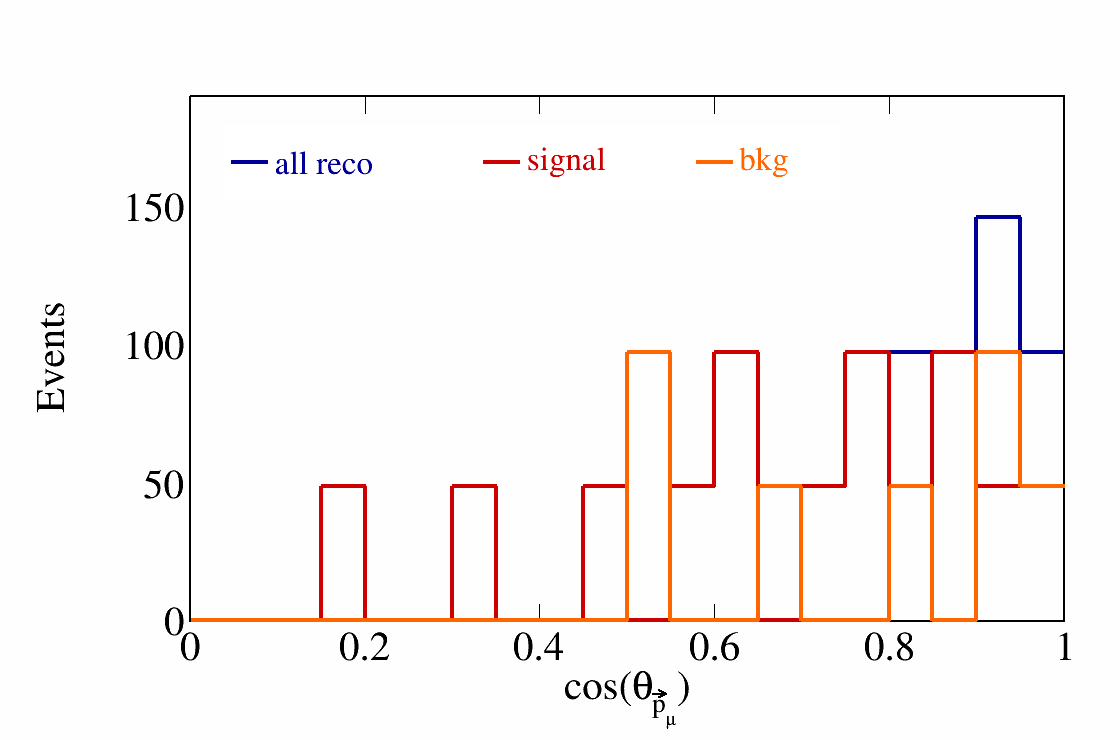
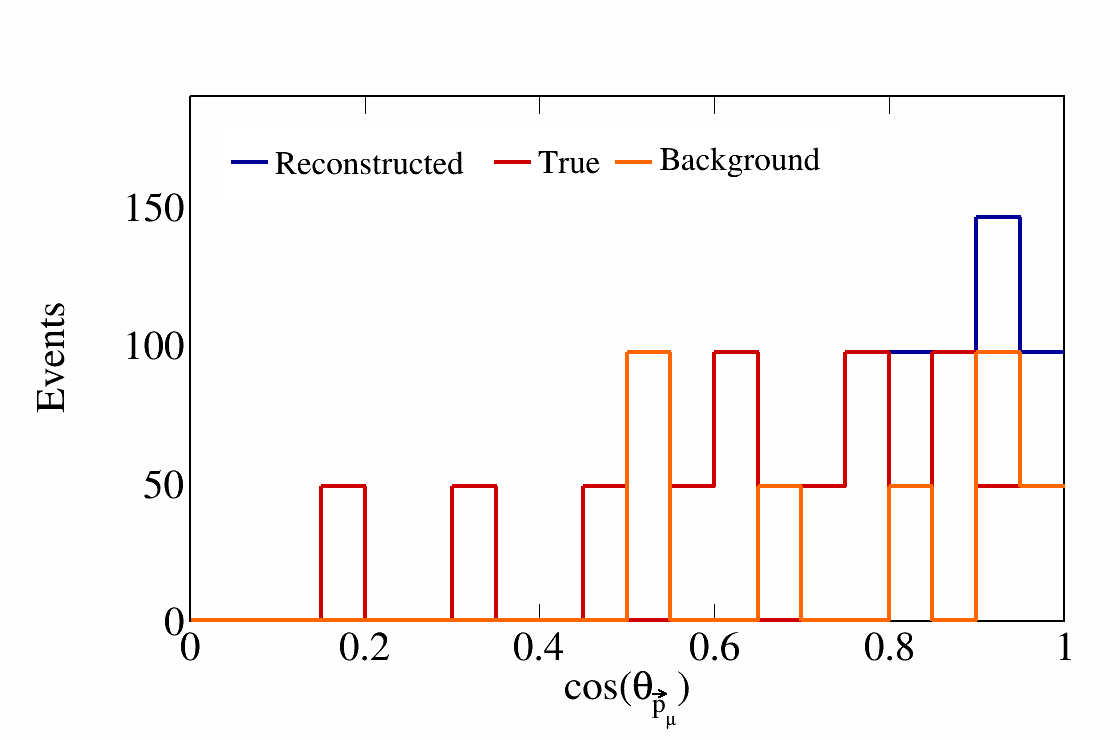
Change legend style

Changed region(s): [[0.4688, 0.1865, 0.7188, 0.2486], [0.25, 0.1865, 0.4375, 0.2486]]

diff --git a/CAFAnaAnalysis/Scripts/Selection.C b/CAFAnaAnalysis/Scripts/Selection.C
@@ -210,8 +210,7 @@ void Selection() {
         leg->SetTextSize(TextSize*0.8);
         leg->SetTextFont(FontStyle);
 
-        TLegendEntry* legReco = leg->AddEntry(RecoHisto,"all reco","l");
-        legReco->SetTextColor(kBlue+2);
+        TLegendEntry* legReco = leg->AddEntry(RecoHisto,"Reconstructed","l");
         RecoHisto->SetLineColor(kBlue+2);
         RecoHisto->SetLineWidth(4);
 
@@ -239,13 +238,11 @@ void Selection() {
         RecoTrueHisto->GetYaxis()->SetRangeUser(0.,YAxisRange);
         RecoBkgHisto->GetYaxis()->SetRangeUser(0.,YAxisRange);
 
-        TLegendEntry* legRecoTrue = leg->AddEntry(RecoTrueHisto,"signal","l");
-        legRecoTrue->SetTextColor(kRed+1);
+        TLegendEntry* legRecoTrue = leg->AddEntry(RecoTrueHisto,"True","l");
         RecoTrueHisto->SetLineColor(kRed+1); 
         RecoTrueHisto->SetLineWidth(4);
 
-        TLegendEntry* legRecoBkg = leg->AddEntry(RecoBkgHisto,"bkg","l");
-        legRecoBkg->SetTextColor(kOrange+7);
+        TLegendEntry* legRecoBkg = leg->AddEntry(RecoBkgHisto,"Background","l");
         RecoBkgHisto->SetLineColor(kOrange+7);
         RecoBkgHisto->SetLineWidth(4);
 
